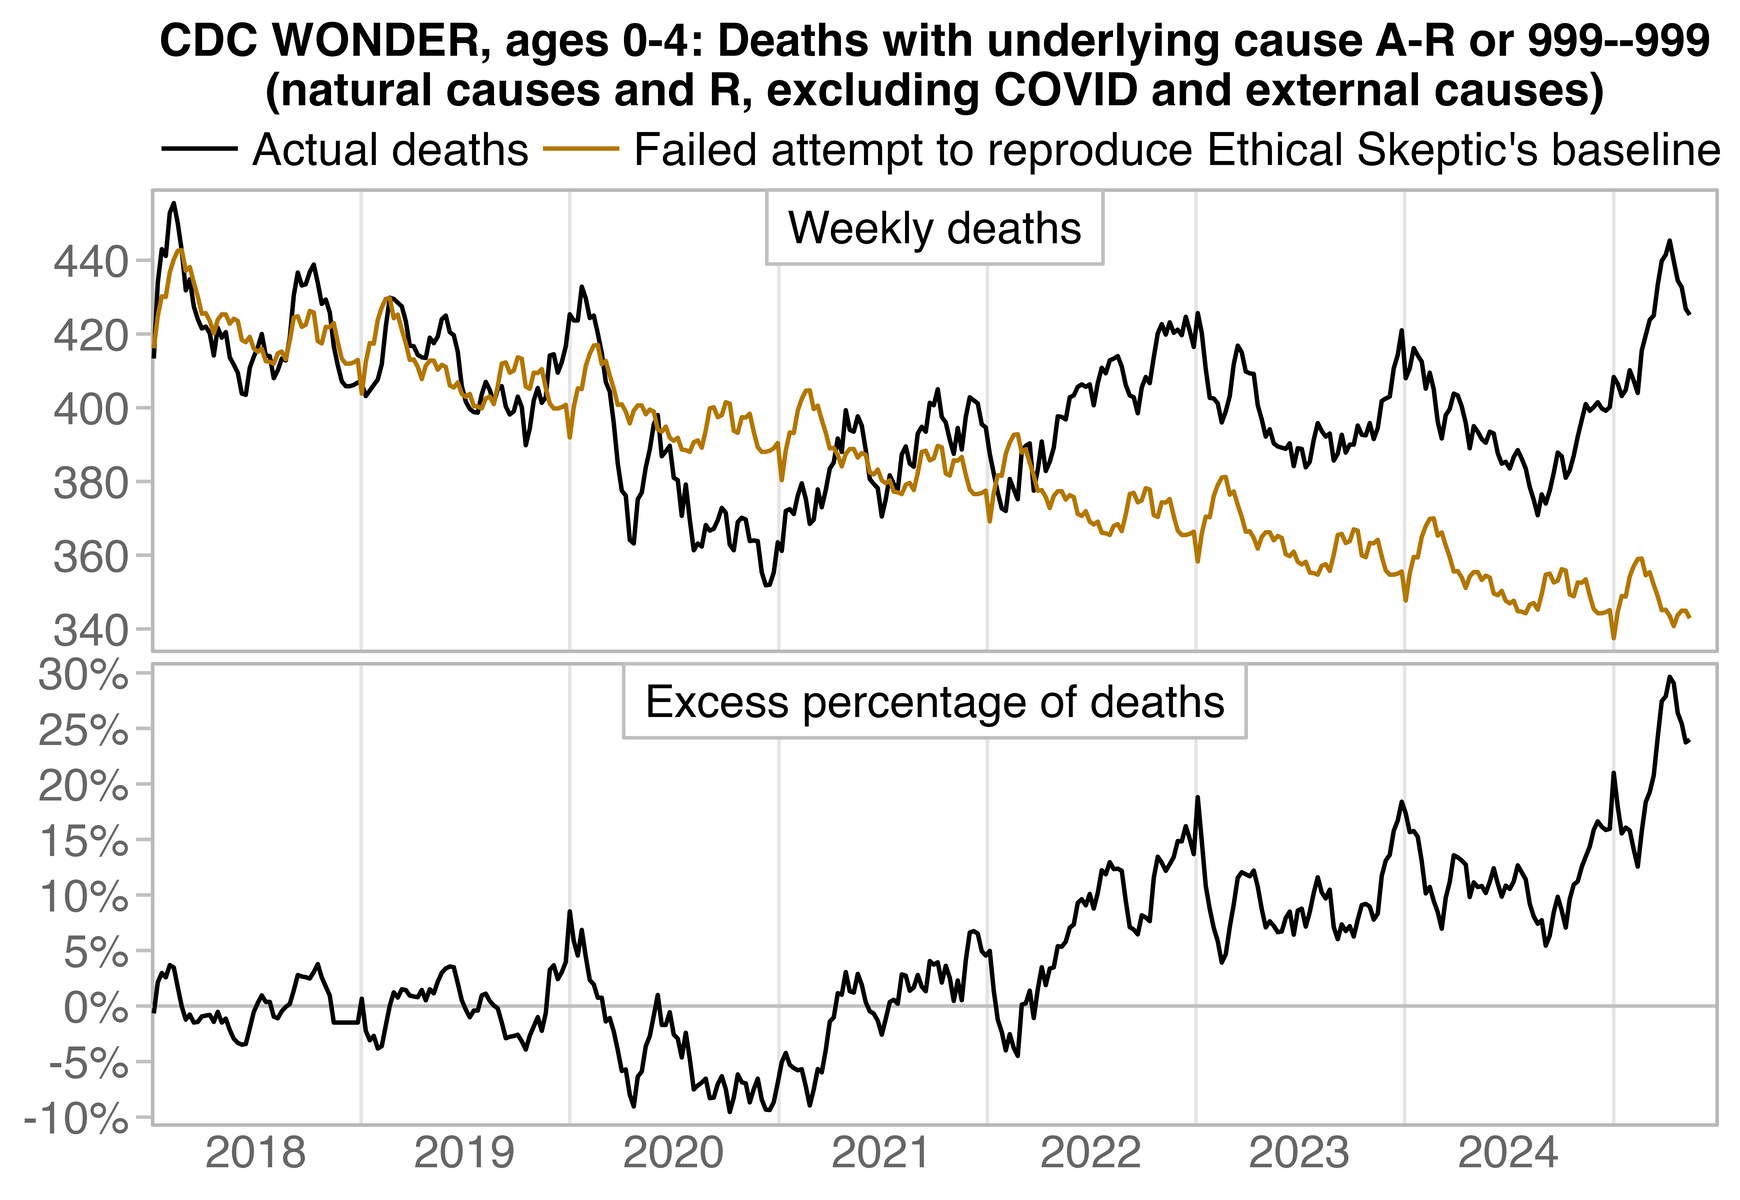
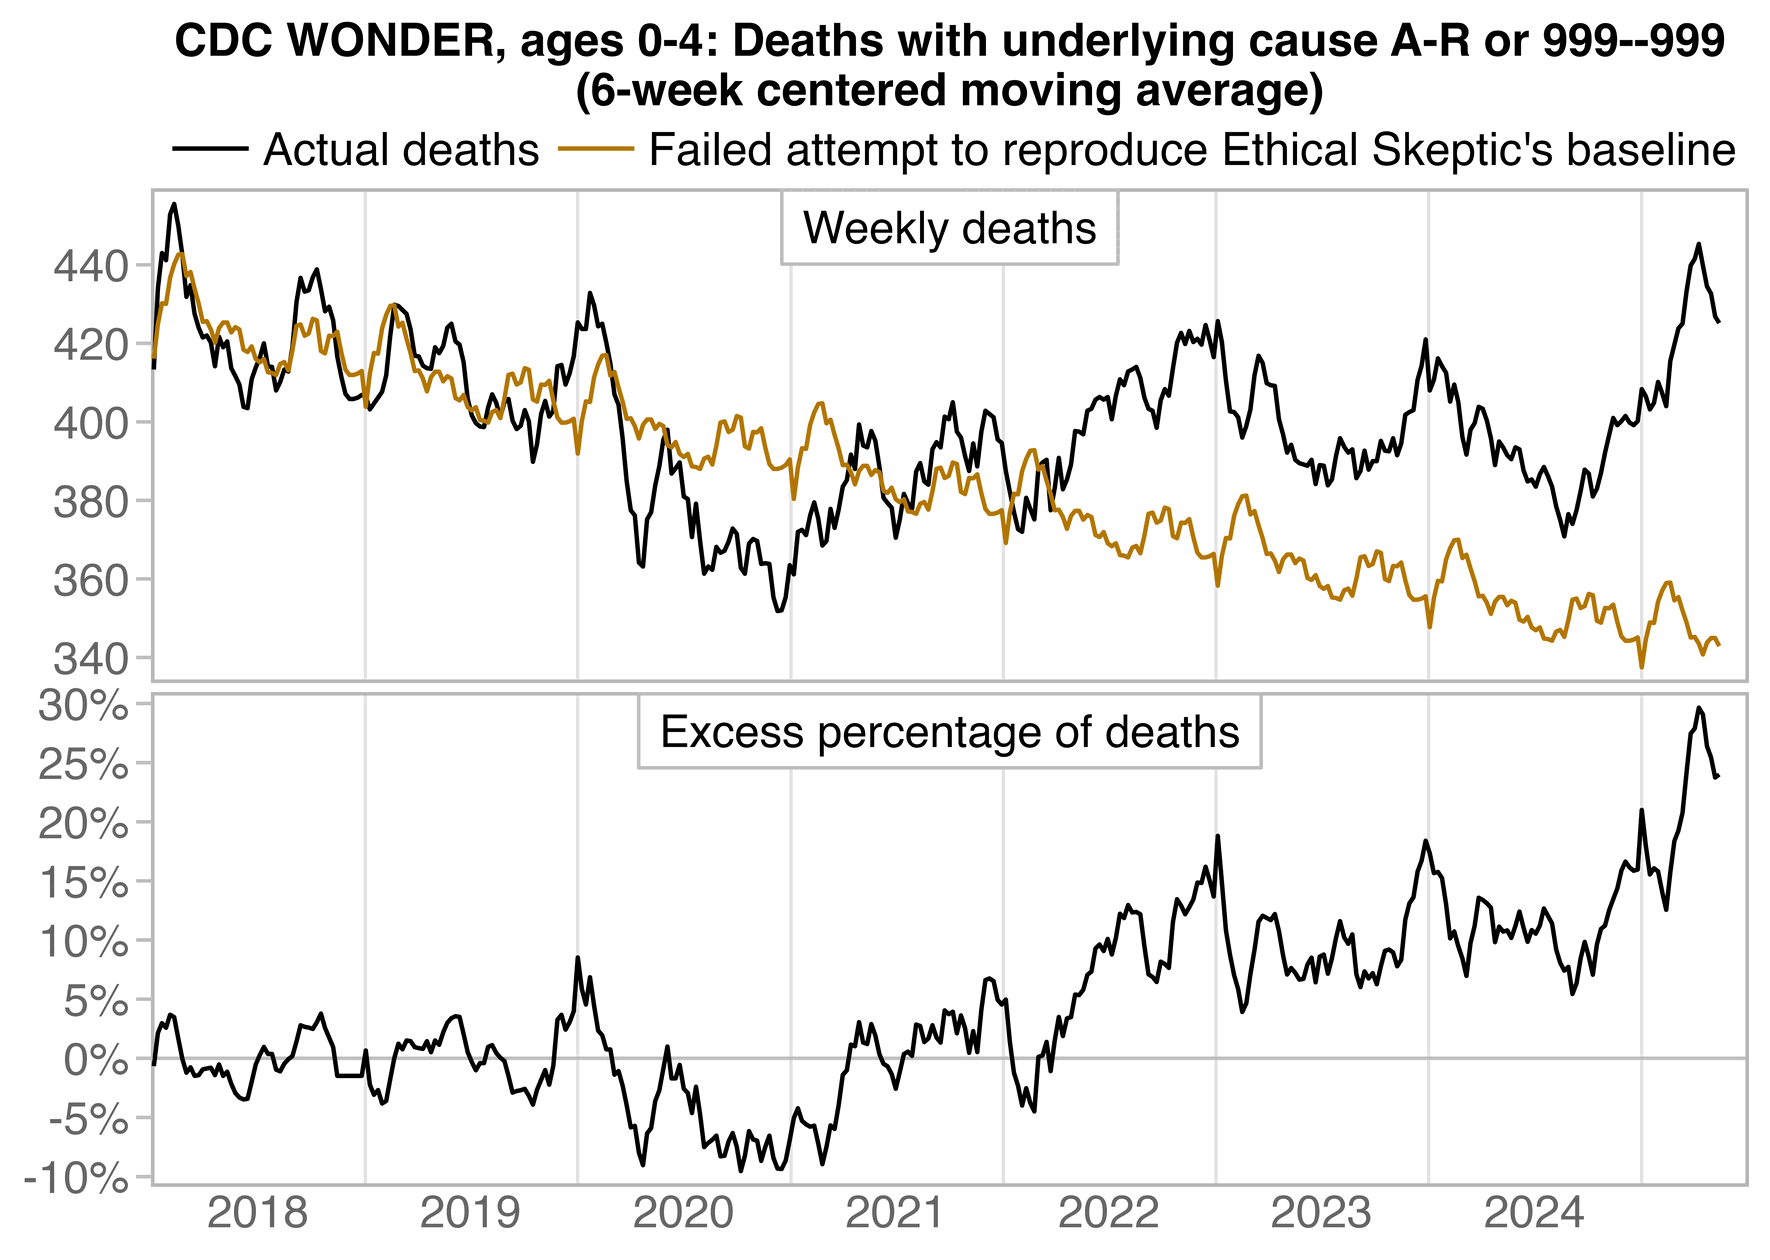
a

diff --git a/ethical3.html b/ethical3.html
@@ -3,7 +3,7 @@
 <meta name=viewport content=width=device-width,initial-scale=1.0>
 <style>
 body{background:#2f2f2f;color:white}
-body,td,th{font:14.5px/1.3 Arial,Helvetica,'Liberation Sans',sans-serif}
+body,td,th{font:14.5px/1.33 Arial,Helvetica,'Liberation Sans',sans-serif}
 p{max-width:530px;margin:1em auto}
 dl,pre{margin:1em auto;width:fit-content;max-width:min(100%, 1100px)}
 hr{border:none;border-top: 2px solid #bbb;margin:1em auto;max-width:1100px}
@@ -27,8 +27,7 @@ th{background:#444;text-align:left;font-weight:bold}
 img{max-width:100%;margin:0;display:block}
 dt{font-size:1.3em;margin:.4em 0}
 body>blockquote{margin:1em auto;width:500px}
-blockquote{padding-left:40px}
-blockquote{width:calc(100% - 40px);box-sizing:border-box}
+blockquote{width:calc(100% - 40px);padding-left:40px;box-sizing:border-box}
 blockquote>:first-child{margin-top:0}
 blockquote>:last-child{margin-bottom:0}
 blockquote,.quote,blockquote,blockquote{color:hsl(50,100%,85%)}
@@ -40,7 +39,8 @@ blockquote h3{color:inherit}
 .spoiler pre{display:none;margin-top:0;text-align:left}
 .red,.red .quote{color:hsl(0,100%,77%)!important}
 .comment{color:hsl(0,100%,80%)!important}
-.toc{max-width:none}
+.toc{width:calc(50% + 265px);margin:1em 0 1em max(0px, 50% - 265px)}
+.toc ul{width:min(100%, 50% + 265px - 40px);margin:0}
 @media print{
   body{background:white;color:black;margin:0px;zoom:1;print-color-adjust:exact;-webkit-print-color-adjust:exact}
   a{color:#0000EE}a:visited{color:#551A8B}
@@ -1854,8 +1854,8 @@ and 0% in 2024:</p>
 <button>
 Show code
 </button>
-<pre>t=t[,.(year=1968:2017,born=c(2718000,2777000,2809000,2840000,2869000,2986000,2965000,2964000,2944000,2948000,2740000,2950000,3055000,2882000,2910000,2979000,2909000,2839000,2802000,2674000,2582000,2618000,2506000,2440000,2307000,2396000,2377000,2355000,2413000,2496000,2466000,2559000,2703000,2989000,3104000,2939000,2858000,3411000,3817000,3637000,3649000,3632000,3820000,3909000,3959000,4071000,4097000,4210000,4300000,4246000,4244796,4257850,4268326,4167362,4098020,4027490,3760358,3606274,3520959,3501564,3600206,3731386,3555970,3258411,3136965,3159958,3144198,3167788,3326632,3333279,3494398,3612258,3629238,3680537,3638933,3669141,3760561,3756547,3809394,3909510,4040958,4158212,4110907,4065014,4000240,3952767,3899589,3891494,3880894,3941553,3959417,4058814,4025933,4021726,4089950,4112052,4138349,4265555,4316233,4247694,4130665,3999386,3953590,3952841,3932181,3988076,3978497,3945875,3855500,3791712))]
-t=rbind(t,fread(&quot;https://sars2.net/f/wondernatality.csv&quot;)[year%in%2019:2024,.(born=sum(born)),year])
+<pre>t=CJ(year=1968:2024)
+t$born=c(3501564,3600206,3731386,3555970,3258411,3136965,3159958,3144198,3167788,3326632,3333279,3494398,3612258,3629238,3680537,3638933,3669141,3760561,3756547,3809394,3909510,4040958,4158212,4110907,4065014,4000240,3952767,3899589,3891494,3880894,3941553,3959417,4058814,4025933,4021726,4089950,4112052,4138349,4265555,4316233,4247694,4130665,3999386,3953590,3952841,3932181,3988076,3978497,3945875,3855500,3791712,3747540,3613647,3664292,3667758,3596017,3618267)
 
 t=merge(fread(&quot;https://sars2.net/f/wonderinfantdeadpop.csv&quot;)[,.(year,dead)],t)
 
@@ -2813,7 +2813,7 @@ t[,dead:=ma(dead,3,2)]
 base=t[year&lt;2020&amp;!(year==2019&amp;week&gt;45)]
 
 # get average deaths for each week number during the baseline period
-# week 53 is average of weeks 52 and 1, but I don&#39;t know how ES treated week 53
+# I treated week 53 as average of weeks 52 and 1, but I don&#39;t know how ES treated week 53
 weekly=base[,tapply(dead,week,mean)]
 weekly[53]=mean(weekly[c(1,52)])
 
@@ -2862,15 +2862,15 @@ xbreak=seq(xstart,as.Date(&quot;2025-1-1&quot;),&quot;6 month&quot;);xlab=ifelse
 ylim=p[,{x=extendrange(y,,.03);.(ymin=x[1],ymax=x[2])},facet]
 
 ggplot(p)+
-facet_wrap(~facet,dir=&quot;v&quot;,scales=&quot;free_y&quot;)+
+facet_wrap(~facet,ncol=1,scales=&quot;free_y&quot;)+
 geom_vline(xintercept=seq(xstart,xend,&quot;year&quot;),color=&quot;gray90&quot;,linewidth=.4)+
 geom_segment(data=p[.N],x=xstart,xend=xend,y=0,yend=0,linewidth=.4,color=&quot;gray75&quot;)+
 geom_rect(data=ylim,aes(ymin=ymin,ymax=ymax),xmin=xstart,xmax=xend,lineend=&quot;square&quot;,linejoin=&quot;mitre&quot;,fill=NA,color=&quot;gray72&quot;,linewidth=.4)+
 geom_line(aes(x,y,color=z),linewidth=.5)+
 geom_label(data=ylim,aes(mean(c(xstart,xend)),ymax,label=facet),vjust=1,label.r=unit(0,&quot;pt&quot;),label.padding=unit(5,&quot;pt&quot;),label.size=.4,color=&quot;gray75&quot;,size=3.8)+
 geom_label(data=ylim,aes(mean(c(xstart,xend)),ymax,label=facet),vjust=1,label.r=unit(0,&quot;pt&quot;),label.padding=unit(5,&quot;pt&quot;),label.size=0,size=3.8,fill=NA)+
-labs(x=NULL,y=NULL,title=&quot;CDC WONDER, ages 0-4: Deaths with underlying cause A-R or 999--999\n(natural causes and R, excluding COVID and external causes)&quot;)+
-scale_x_continuous(limits=c(xstart,xend),breaks=xbreak,labels=xlab)+
+labs(x=NULL,y=NULL,title=&quot;CDC WONDER, ages 0-4: Deaths with underlying cause A-R or 999--999\n(6-week centered moving average)&quot;)+
+scale_x_date(limits=c(xstart,xend),breaks=xbreak,labels=xlab)+
 scale_y_continuous(breaks=\(x)pretty(x,7),labels=\(x)if(min(x,na.rm=T)&lt;0)paste0(x,&quot;%&quot;)else x)+
 scale_color_manual(values=c(&quot;black&quot;,hsv(4/36,1,.7)))+
 coord_cartesian(clip=&quot;off&quot;,expand=F)+
@@ -2884,23 +2884,25 @@ theme(axis.text=element_text(size=11,color=&quot;gray40&quot;),
   legend.direction=&quot;horizontal&quot;,
   legend.key=element_blank(),
   legend.key.height=unit(12,&quot;pt&quot;),
+  legend.key.spacing.x=unit(2,&quot;pt&quot;),
   legend.key.width=unit(23,&quot;pt&quot;),
   legend.margin=margin(-2,,4),
   legend.position=&quot;top&quot;,
   legend.spacing.x=unit(1,&quot;pt&quot;),
   legend.spacing.y=unit(0,&quot;pt&quot;),
-  legend.text=element_text(size=11,vjust=.5),
+  legend.text=element_text(size=11,vjust=.5,margin=margin(,,,1)),
   legend.title=element_blank(),
   panel.background=element_blank(),
   panel.spacing=unit(3,&quot;pt&quot;),
+  plot.subtitle=element_text(size=11,hjust=.5,margin=margin(,,4)),
   plot.title=element_text(size=11,face=2,hjust=.5,margin=margin(,,4)),
   strip.background=element_blank(),
   strip.text=element_blank())
-ggsave(&quot;1.png&quot;,width=5.8,height=4,dpi=300*4)</pre>
+ggsave(&quot;1.png&quot;,width=5.9,height=4.2,dpi=300*4)</pre>
 </div>
 <p>There's no way you can get a curve with Ethical Skeptic's formula
 that decreases more between 2019 and 2020 than between 2018 and 2019,
-like his baseline in the vaccinial plot. If you give a negative growth
+like the baseline in his vaccinial plot. If you give a negative growth
 rate to his formula <code>(1+growthrate)^(year-2018.5)</code>, you
 always get a concave curve where the absolute year-to-year decrease gets
 smaller over time:</p>
@@ -3012,24 +3014,22 @@ formula for CAGR.</p>
 the legacy trend is even steeper, which shows how the legacy trend
 exaggerates the rate of decline before COVID. And ES falsely portrays
 the blue line as representing a 4.34% decrease.</p>
-<p>The orange line is supposed to portray a 3.02% annual decrease. But
-it decreases from about 7.04 in 2004 to 5.27 in 2022, which is about
-1.4% per year if you divide the total decrease with the number of years:
-<code>(1-5.27/7.04)/18</code>. Or it's about 1.6% with CAGR:
+<p>The orange line is supposed to decrease by 3.02% per year, but
+actually it decreases from about 7.04 in 2004 to 5.27 in 2022, which is
+about 1.4% per year if you divide the total decrease with the number of
+years: <code>(1-5.27/7.04)/18</code>. Or it's about 1.6% with CAGR:
 <code>(5.27/7.04)^(1/18)-1</code>.</p>
 <p>And even the orange line is more steep than the real 2004-2019 linear
-trend in the CDC data, which decreased by only about 1.3% per year if
-you divide the total decrease between 2004 and 2022 with the number of
-years from 2004 to 2022:</p>
+trend in the CDC data, where you get a decrease of only about 1.3% per
+year if you divide the total decrease between 2004 and 2022 with the
+number of years from 2004 to 2022:</p>
 <pre># from cdc.gov/nchs/data/nvsr/nvsr74/nvsr74-07.pdf#page=8
 d=CJ(year=1995:2023)
-d$born=c(3899589,3891494,3880894,3941553,3959417,4058882,4026036,4021825,4090007,4112055,4138573,4265593,4316233,4247726,4130665,3999386,3953590,3952841,3932181,3988076,3978497,3945875,3855500,3791712,3747540,3613647,3664292,3667758,3596017)
-d$dead=c(29505,28419,27968,28325,27865,27961,27523,27970,27995,27860,28384,28509,29153,28075,26408,24572,24001,23654,23446,23211,23458,23157,22341,21498,20927,19578,19928,20577,20162)
+d$rate=c(757,730,721,719,704,689,684,695,684,678,686,668,675,661,639,614,607,598,596,582,590,587,579,567,558,542,544,561,561)/100
 
-d[,rate:=dead/born*1e3]
 d$trend=predict(lm(rate~year,d[year%in%2004:2019]),d)
 d[,(1-trend[year==2022]/trend[year==2004])/18]
-# 0.01281137 (about 1.3%)</pre>
+# 0.01282821 (about 1.3%)</pre>
 <p>The next table shows that the real infant mortality rate in the CDC
 report was about 5.42 in 2020, but for some reason ES came up with his
 own <span class="quote">"normalized"</span> infant mortality rate of
@@ -3050,7 +3050,7 @@ class="quote">"normalized"</span> infant mortality rate is that first he
 calculated the annual decline percent of his <span class="quote">"legacy
 trend"</span>, which was about 4.3%. Then he manually drew a line in the
 CDC plot that approximated the slope between 2019 and 2020, and he
-falsely declared the line to decrease by about 4.3% per year. Then he
+falsely declared that the line decreased by about 4.3% per year. Then he
 thought that the longer-term rate of decline before COVID looked about a
 third less steep than his blue line, so he picked a fake infant
 mortality rate for 2020 that gave him an annual rate of decline of about

diff --git a/ethical.html b/ethical.html
@@ -3,7 +3,7 @@
 <meta name=viewport content=width=device-width,initial-scale=1.0>
 <style>
 body{background:#2f2f2f;color:white}
-body,td,th{font:14.5px/1.3 Arial,Helvetica,'Liberation Sans',sans-serif}
+body,td,th{font:14.5px/1.33 Arial,Helvetica,'Liberation Sans',sans-serif}
 p{max-width:530px;margin:1em auto}
 dl,pre{margin:1em auto;width:fit-content;max-width:min(100%, 1100px)}
 hr{border:none;border-top: 2px solid #bbb;margin:1em auto;max-width:1100px}
@@ -27,8 +27,7 @@ th{background:#444;text-align:left;font-weight:bold}
 img{max-width:100%;margin:0;display:block}
 dt{font-size:1.3em;margin:.4em 0}
 body>blockquote{margin:1em auto;width:500px}
-blockquote{padding-left:40px}
-blockquote{width:calc(100% - 40px);box-sizing:border-box}
+blockquote{width:calc(100% - 40px);padding-left:40px;box-sizing:border-box}
 blockquote>:first-child{margin-top:0}
 blockquote>:last-child{margin-bottom:0}
 blockquote,.quote,blockquote,blockquote{color:hsl(50,100%,85%)}
@@ -40,7 +39,8 @@ blockquote h3{color:inherit}
 .spoiler pre{display:none;margin-top:0;text-align:left}
 .red,.red .quote{color:hsl(0,100%,77%)!important}
 .comment{color:hsl(0,100%,80%)!important}
-.toc{max-width:none}
+.toc{width:calc(50% + 265px);margin:1em 0 1em max(0px, 50% - 265px)}
+.toc ul{width:min(100%, 50% + 265px - 40px);margin:0}
 @media print{
   body{background:white;color:black;margin:0px;zoom:1;print-color-adjust:exact;-webkit-print-color-adjust:exact}
   a{color:#0000EE}a:visited{color:#551A8B}
@@ -4577,7 +4577,7 @@ effect.</p>
 <a href=#Non_COVID_deaths_from_natural_causes_in_ages_0_to_24 id=Non_COVID_deaths_from_natural_causes_in_ages_0_to_24>Non-COVID
 deaths from natural causes in ages 0 to 24</a>
 </h2>
-<p>Ethical Skeptic posted this tweet:
+<p>Ethical Skeptic posted the plot below and wrote:
 [<a href=https://x.com/EthicalSkeptic/status/1846676664589148455>https://x.com/EthicalSkeptic/status/1846676664589148455</a>]</p>
 <blockquote>
 <p>Excess Non-Covid Natural Cause Mortality Ages 0-24</p>
@@ -4586,16 +4586,16 @@ deaths from natural causes in ages 0 to 24</a>
 annual winter virus dynamics, perhaps indicating immune system
 impairment in our youngest population.</p>
 <p>Not good news for anyone. 😞</p>
+</blockquote>
 <div>
 <img src=i/ethical-natural-1.png width=800>
 </div>
-</blockquote>
-<p>Ethical Skeptic didn't exclude deaths under ICD chapter R from his
-plot, so some of his excess deaths in 2024 and to a less extent late
-2023 might be due to deaths from external causes where the cause has not
-yet been resolved. His plot included the first 15 weeks of 2024. He
-posted the plot in October 2024 but I don't know if he retrieved the
-data earlier.</p>
+<p>ES didn't exclude deaths under ICD chapter R from his plot, so some
+of his excess deaths in 2024 and to a less extent late 2023 might be due
+to deaths from external causes where the cause has not yet been
+resolved. His plot included the first 15 weeks of 2024. He posted the
+plot in October 2024 but I don't know if he retrieved the data
+earlier.</p>
 <p>In the plot below where I plotted R deaths separately from A to Q
 deaths, there was a slight elevation in deaths under R codes during the
 first 3 to 4 months of 2024 but it was not that massive. But I wasn't

diff --git a/ethical4.html b/ethical4.html
@@ -3,7 +3,7 @@
 <meta name=viewport content=width=device-width,initial-scale=1.0>
 <style>
 body{background:#2f2f2f;color:white}
-body,td,th{font:14.5px/1.3 Arial,Helvetica,'Liberation Sans',sans-serif}
+body,td,th{font:14.5px/1.33 Arial,Helvetica,'Liberation Sans',sans-serif}
 p{max-width:530px;margin:1em auto}
 dl,pre{margin:1em auto;width:fit-content;max-width:min(100%, 1100px)}
 hr{border:none;border-top: 2px solid #bbb;margin:1em auto;max-width:1100px}
@@ -27,8 +27,7 @@ th{background:#444;text-align:left;font-weight:bold}
 img{max-width:100%;margin:0;display:block}
 dt{font-size:1.3em;margin:.4em 0}
 body>blockquote{margin:1em auto;width:500px}
-blockquote{padding-left:40px}
-blockquote{width:calc(100% - 40px);box-sizing:border-box}
+blockquote{width:calc(100% - 40px);padding-left:40px;box-sizing:border-box}
 blockquote>:first-child{margin-top:0}
 blockquote>:last-child{margin-bottom:0}
 blockquote,.quote,blockquote,blockquote{color:hsl(50,100%,85%)}
@@ -40,7 +39,8 @@ blockquote h3{color:inherit}
 .spoiler pre{display:none;margin-top:0;text-align:left}
 .red,.red .quote{color:hsl(0,100%,77%)!important}
 .comment{color:hsl(0,100%,80%)!important}
-.toc{max-width:none}
+.toc{width:calc(50% + 265px);margin:1em 0 1em max(0px, 50% - 265px)}
+.toc ul{width:min(100%, 50% + 265px - 40px);margin:0}
 @media print{
   body{background:white;color:black;margin:0px;zoom:1;print-color-adjust:exact;-webkit-print-color-adjust:exact}
   a{color:#0000EE}a:visited{color:#551A8B}
@@ -70,7 +70,7 @@ blockquote h3{color:inherit}
 diagnoses in England per population aged 65 and above</a>
 </h2>
 <p>Ethical Skeptic posted this plot of cancer incidence in England:
-[<a href=https://x.com/EthicalSkeptic/status/1966911244859842912/photo/3>https://x.com/EthicalSkeptic/status/1966911244859842912/photo/3</a>]</p>
+[<a href=https://x.com/EthicalSkeptic/status/1966911244859842912>https://x.com/EthicalSkeptic/status/1966911244859842912</a>]</p>
 <div>
 <img src=i/ethical-englandincidence-1.png width=800>
 </div>

diff --git a/ethical2.html b/ethical2.html
@@ -3,11 +3,11 @@
 <meta name=viewport content=width=device-width,initial-scale=1.0>
 <style>
 body{background:#2f2f2f;color:white}
-body,td,th{font:14.5px/1.3 Arial,Helvetica,'Liberation Sans',sans-serif}
-p{max-width:550px;margin:1em auto}
+body,td,th{font:14.5px/1.33 Arial,Helvetica,'Liberation Sans',sans-serif}
+p{max-width:530px;margin:1em auto}
 dl,pre{margin:1em auto;width:fit-content;max-width:min(100%, 1100px)}
 hr{border:none;border-top: 2px solid #bbb;margin:1em auto;max-width:1100px}
-ul,ol{width:min(100%, 550px);margin:1em auto;box-sizing:border-box}
+ul,ol{width:min(100%, 530px);margin:1em auto;box-sizing:border-box}
 ul ul,ul ol,ol ol,ol ul{margin-top:0;margin-bottom:0}
 div:has(img){width:fit-content;margin:0 auto}
 h1,h2,h3,h2 a,h3 a,h2 a:visited,h3 a:visited{color:white;font-weight:normal}
@@ -27,8 +27,7 @@ th{background:#444;text-align:left;font-weight:bold}
 img{max-width:100%;margin:0;display:block}
 dt{font-size:1.3em;margin:.4em 0}
 body>blockquote{margin:1em auto;width:500px}
-blockquote{padding-left:40px}
-blockquote{width:calc(100% - 40px);box-sizing:border-box}
+blockquote{width:calc(100% - 40px);padding-left:40px;box-sizing:border-box}
 blockquote>:first-child{margin-top:0}
 blockquote>:last-child{margin-bottom:0}
 blockquote,.quote,blockquote,blockquote{color:hsl(50,100%,85%)}
@@ -40,7 +39,8 @@ blockquote h3{color:inherit}
 .spoiler pre{display:none;margin-top:0;text-align:left}
 .red,.red .quote{color:hsl(0,100%,77%)!important}
 .comment{color:hsl(0,100%,80%)!important}
-.toc{max-width:none}
+.toc{width:calc(50% + 265px);margin:1em 0 1em max(0px, 50% - 265px)}
+.toc ul{width:min(100%, 50% + 265px - 40px);margin:0}
 @media print{
   body{background:white;color:black;margin:0px;zoom:1;print-color-adjust:exact;-webkit-print-color-adjust:exact}
   a{color:#0000EE}a:visited{color:#551A8B}

diff --git a/rootclaim5.html b/rootclaim5.html
@@ -3,12 +3,14 @@
 <meta name=viewport content=width=device-width,initial-scale=1.0>
 <style>
 body{background:#2f2f2f;color:white}
-body,td,th{font:14.5px/1.3 Arial,Helvetica,'Liberation Sans',sans-serif}
+body,td,th{font:14.5px/1.33 Arial,Helvetica,'Liberation Sans',sans-serif}
 p{max-width:530px;margin:1em auto}
 dl,pre{margin:1em auto;width:fit-content;max-width:min(100%, 1100px)}
 hr{border:none;border-top: 2px solid #bbb;margin:1em auto;max-width:1100px}
 ul,ol{width:min(100%, 530px);margin:1em auto;box-sizing:border-box}
 ul ul,ul ol,ol ol,ol ul{margin-top:0;margin-bottom:0}
+.toc{width:calc(50% + 265px);margin:1em 0 1em max(0px, 50% - 265px)}
+.toc ul{width:min(100%, 50% + 265px - 40px);margin:0}
 div:has(img){width:fit-content;margin:0 auto}
 h1,h2,h3,h2 a,h3 a,h2 a:visited,h3 a:visited{color:white;font-weight:normal}
 h1{font-size:2.1em;margin-top:.7em;text-align:center}
